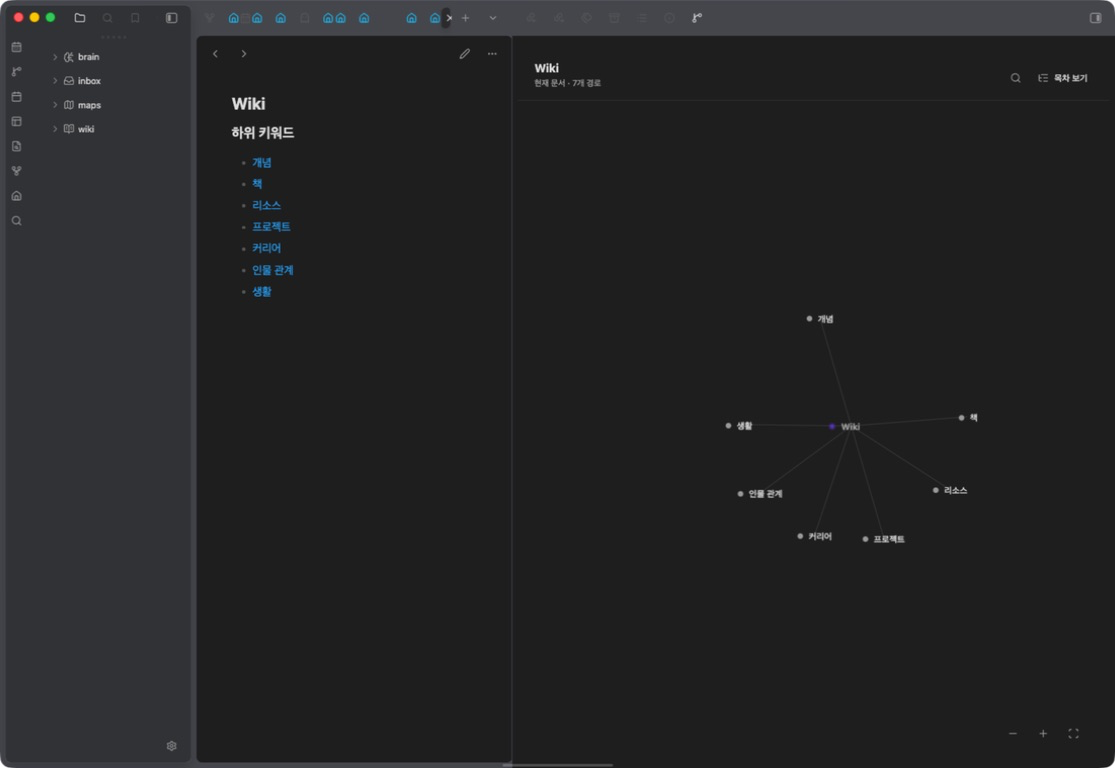
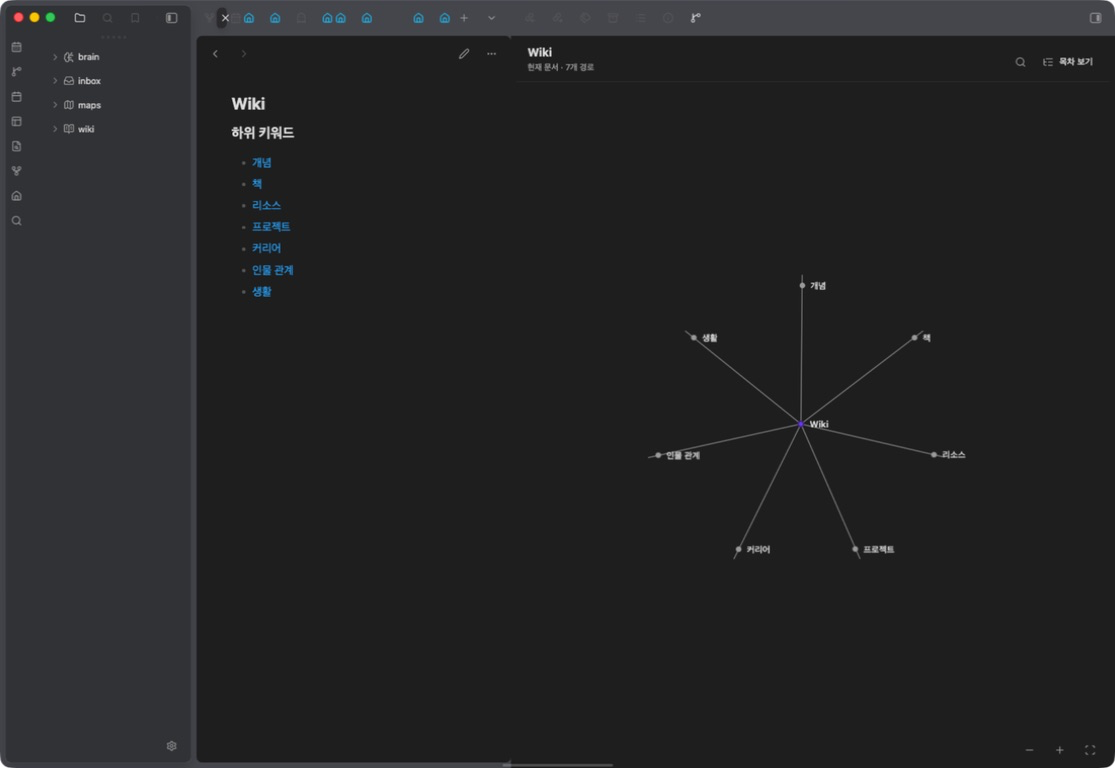
docs: record verified 1.3.5 runtime

diff --git a/docs/design-qa.md b/docs/design-qa.md
@@ -8,27 +8,28 @@
 
 ## Compared reference
 
-The user-supplied captures, including the latest 938×508 edge-and-outline report, and the final 1115×768 Obsidian runtime were placed side by side locally. The latest comparison verified that persistent edges are visibly stronger and the resting `Wiki` centre has no rectangular outline, while retaining Obsidian's dot-and-label graph grammar.
+The user-supplied captures, including the latest native-Graph comparison, and the final 1115×768 Obsidian runtime were placed side by side locally. The latest comparison verified that edges inherit Obsidian's own `--graph-line` and `--graph-text` tokens, every line terminates at the visible dot centre, and the resting `Wiki` centre has no rectangular outline.
 
-The final implementation was captured in Obsidian 1.13.7 with `wiki/README.md` active and the Linked Graph leaf widened. The first capture shows the resting 1-hop graph. The second keyboard-focus capture exercises the same next-hop preview path used by pointer hover, while keeping the keyboard focus ring supplied by Obsidian. The local-only side-by-side comparison is stored outside release media.
+The final implementation was captured in Obsidian 1.13.7 with `wiki/README.md` active and the Linked Graph leaf widened. The first capture shows the resting responsive 1-hop graph. The second keyboard-focus capture exercises the same next-hop preview path used by pointer hover. The local-only side-by-side comparison is stored outside release media.
 
 ## Fidelity and interaction review
 
 | Surface | Result | Evidence |
 |---|---|---|
 | Graph grammar | passed | The current Markdown note is the movable centre, seven resolved outgoing links are surrounding nodes, and each authored link is one visible edge. |
-| Canvas use | passed | Graph mode removes body padding and gives the force surface the full remaining width and height below the compact 64px header. |
+| Canvas use | passed | Graph mode removes body padding, fills the remaining pane, and increases link distance from the compact minimum only when the measured panel can support it. |
 | Moving labels | passed | Every title is part of its force node; the removed group-label layer leaves no fixed captions behind the moving graph. |
 | Route labels | passed | Every direct route keeps a visible title; content-sized native buttons no longer collapse to bare dots. |
-| Motion | passed | `d3-force` link, charge, and collision forces apply equally to the current note and direct nodes. Dragging the current `책` node moved it 54px left and 30px down; release reheated and settled the neighbourhood. |
+| Motion | passed | `d3-force` link, charge, and collision forces apply equally to the current note and direct nodes. Duplicate `active-leaf-change` and `file-open` events are coalesced so one source change creates one graph. |
 | Viewport safety | passed | A dragged `Wiki` node remained visible after settling; moving nodes are bounded by measured node and sidebar dimensions, and resize reheats the layout. |
 | Navigation | passed | On `책`, the centre exposed `상위 문서로 이동: Wiki`; clicking it opened `wiki/README.md` and rebuilt the graph from two book links to seven Wiki routes. |
 | Hover preview | passed | Focusing a direct route exposed the same measured second-level graph used by pointer hover. The source stayed pinned, preview edges remained dashed and non-interactive, and leaving hover or focus removed the entire second level. |
-| Edge contrast | passed | Direct links use a higher-contrast 1.5px neutral stroke; preview links use a visibly secondary 1.2px round-capped dashed stroke. Both remain distinct from node type colours. |
+| Edge geometry | passed | Direct and preview SVG endpoints use the measured dot centre instead of the text-and-dot button centre. Every visible line joins dot to dot. |
+| Edge contrast | passed | Direct links use Obsidian's native `--graph-line` at 1px; preview links use the same theme token as a secondary dashed path. Both remain distinct from node type colours. |
 | Pan and zoom | passed | Background drag pans the world; icon controls zoom out, zoom in, and reset the viewport without writing layout state. |
-| Information hierarchy | passed | Current note title and route count remain in the compact header; the graph contains only moving dots, titles, edges, and quiet controls. No static category captions or filled hover cards remain. |
+| Information hierarchy | passed | Current note title and route count remain in the compact header; the graph contains only resolved-link dots, titles, edges, and quiet controls. No static category captions, native path tooltips, parent arrow, or filled hover cards remain. |
 | Colour and shape | passed | Obsidian theme color tokens differentiate only node dots from canonical `node_kind`, `entity_kind`, and `facets`; every label keeps the neutral host text colour. Titles are never used to infer a type. |
-| Settling stability | passed | Two captures taken three seconds apart after initial settling differed by mean absolute RGB `0.0061/0.0061/0.0063`; the only changed bounding box was the 18×32px pointer, not graph nodes. |
+| Settling stability | passed | Resize events reheat only after a meaningful panel-size change; source navigation refreshes once per distinct Markdown path. |
 | Canonical boundary | passed | Graph, outline, search, and motion are read-only projections; Markdown and Vault relationships are never modified. |
 | Accessibility | passed | Navigable route nodes and controls are native buttons with accessible names. A root without a canonical parent is a draggable, non-focusable graph node, so it does not expose a false action or host button outline. |
 
@@ -46,5 +47,9 @@ The final implementation was captured in Obsidian 1.13.7 with `wiki/README.md` a
 10. Replaced divider-dominant edge colours with neutral text-derived contrast: persistent direct links remain solid and preview links remain lighter dashed paths.
 11. Removed static category anchors and labels, expanded graph mode edge-to-edge, and replaced the filled hover/focus card with a dot-only emphasis while retaining the 2-hop preview.
 12. Increased direct and preview edge contrast, then removed false button semantics from roots without a canonical parent so the `Wiki` centre no longer receives an action outline.
+13. Coalesced duplicate workspace events, removed graph-path tooltips and parent-arrow decoration, and made plain bullet groups structurally impossible in Graph view.
+14. Replaced fixed link radii with viewport-responsive distances that preserve the compact sidebar minimum and use a widened pane.
+15. Moved every edge endpoint from the node container centre to the measured colour-dot centre.
+16. Replaced hand-tuned edge and label colours with Obsidian's native `--graph-line` and `--graph-text` tokens.
 
 final result: passed
